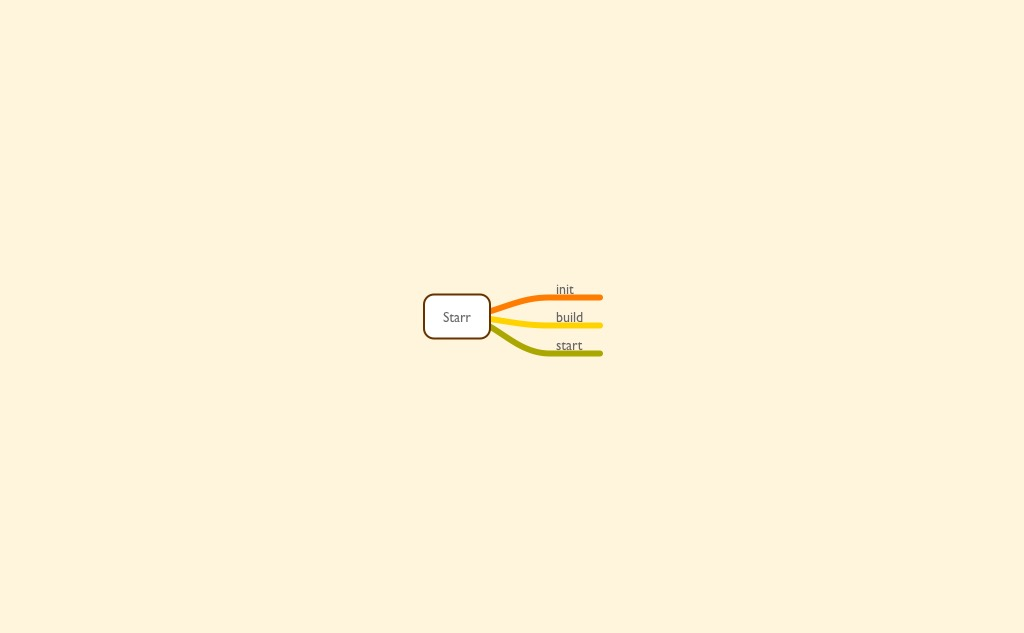
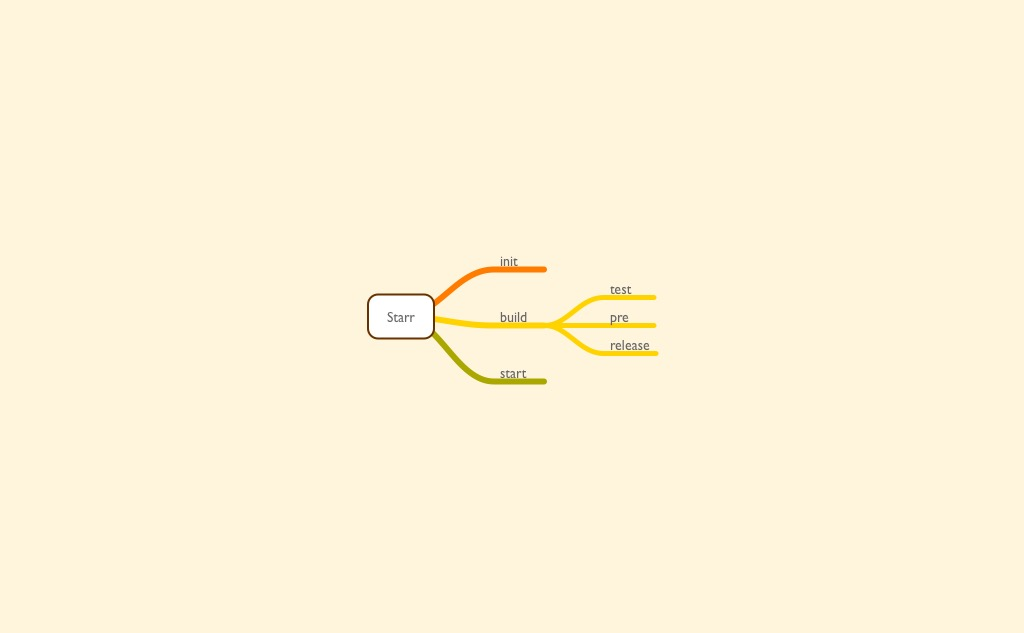
add: init project

Changed region(s): [[0.3438, 0.4202, 0.6562, 0.6303]]

diff --git a/bin/template/app/starr.config.js b/bin/template/app/starr.config.js
@@ -1,0 +1,35 @@
+module.exports = {
+    // host for test mode
+    "host": "127.0.0.1",
+    "port": "9981",
+
+    // entry for starr, put your code in this folder
+    "base": "src",
+
+    // CDN server host
+    "static": {
+        "dev": "",
+        "test": "",
+        "pre": "",
+        "release": ""
+    },
+
+    // global const
+    "globals": {
+        "static_api": { // `${STATIC_API}`
+            "dev": "",
+            "test": "",
+            "pre": "",
+            "release": ""
+        }
+    },
+
+    //
+    "vendor": ["react", "react-dom"],
+
+    // alias :)
+    "alias": {
+        "scss": "scss"
+    }
+
+}

diff --git a/bin/template/app/mock/api_mock.js b/bin/template/app/mock/api_mock.js
@@ -1,0 +1,13 @@
+module.exports = [
+    // {
+    //     path: /\/apis/,
+    //     method: 'get',
+    //     data: function(options){
+    //         return []
+    //     }
+    // },
+    // {
+    //     path: '/api/',
+    //     proxy: 'http://api.foo.bar'
+    // }
+];
